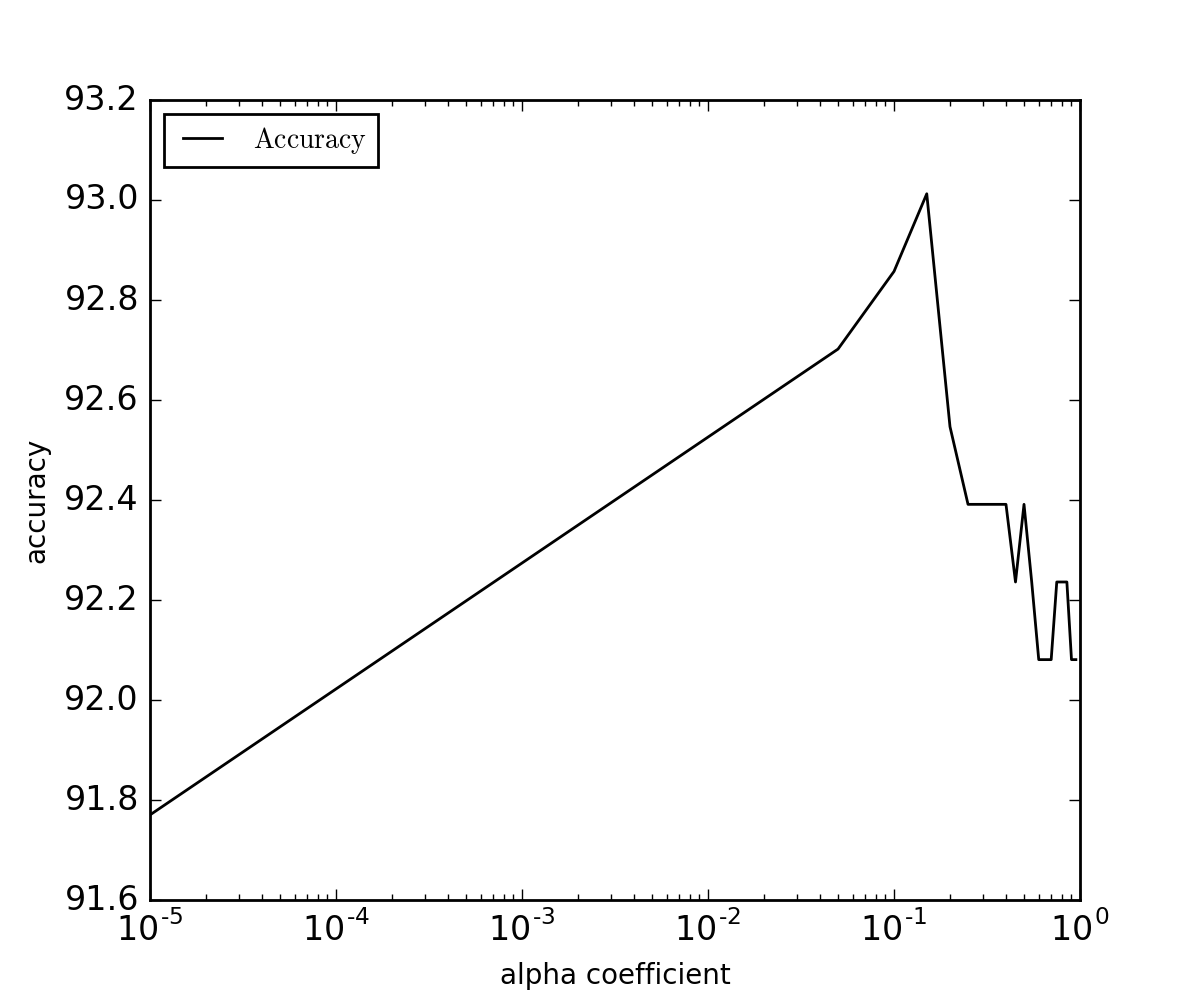
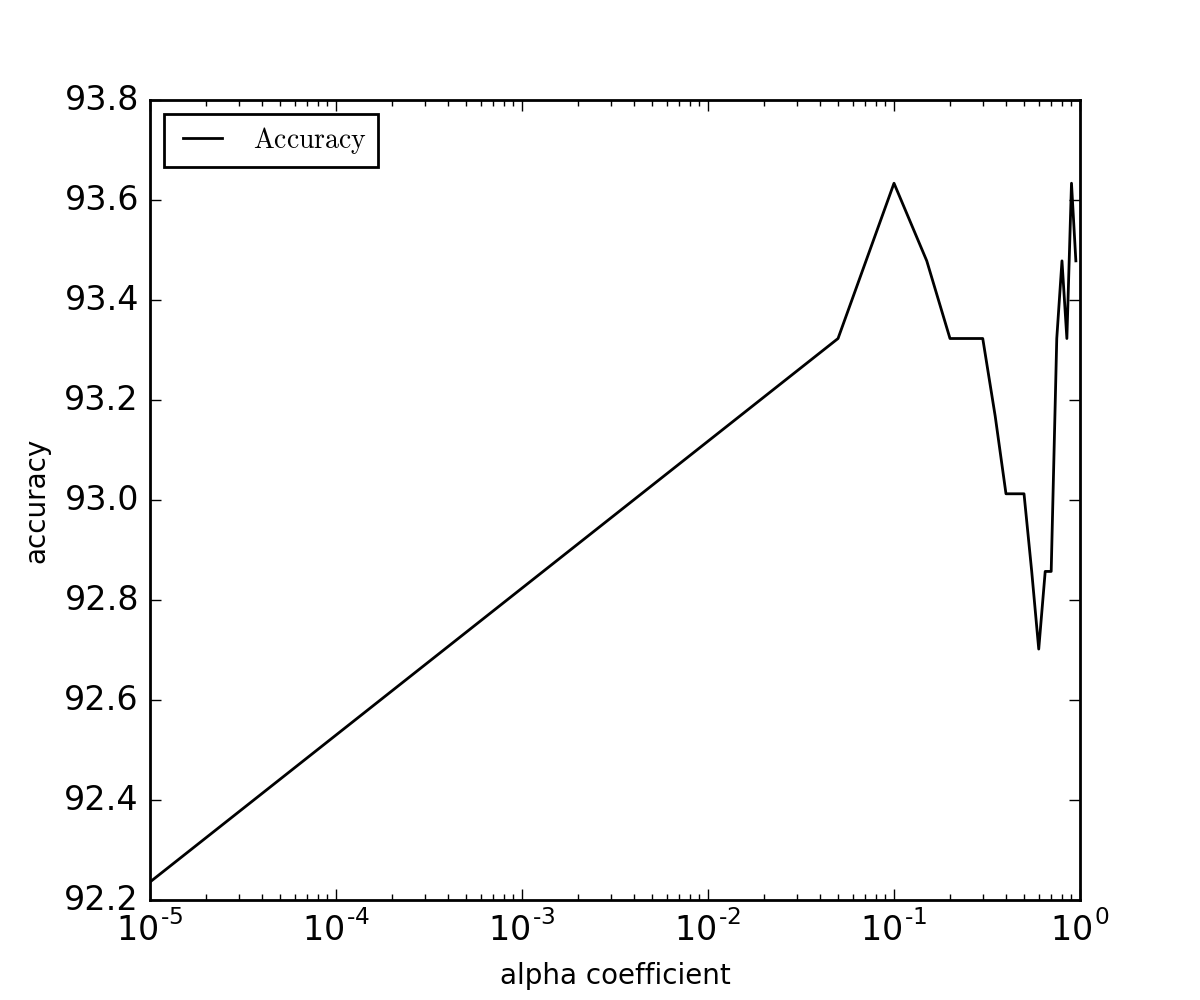
Words are now compared to stopwords in lowercase - top 10 words changed - Readme file added

diff --git a/asgn_2/src/classify.py b/asgn_2/src/classify.py
@@ -132,7 +132,8 @@ class NaiveBayes(object):
         V_tmp = np.unique(V_tmp)
         rm_set = []
         for i in range(len(V_tmp)):
-            if V_tmp[i] in rm_list:
+            V_temp_l = V_tmp[i].lower()
+            if V_temp_l in rm_list:
                 rm_set.append(i)
         self.V = np.delete(V_tmp, rm_set)
         self.V_card = len(self.V)
@@ -165,10 +166,10 @@ class NaiveBayes(object):
                 f = self._get_binomial_feature(self.train_set[i])
                 #self.features2[self.train_labels[i]].append(f)
             if model == 'multinomial':
-                #g = self._get_binomial_feature(self.train_set[i])
-                #self.features2[self.train_labels[i]].append(g)
-                f = self._get_multinomial_feature(self.train_set[i])
-            self.features[self.train_labels[i]].append(f)
+                g = self._get_binomial_feature(self.train_set[i])
+                self.features2[self.train_labels[i]].append(g)
+                k = self._get_multinomial_feature(self.train_set[i])
+            self.features[self.train_labels[i]].append(k)
 
     def _get_binomial_feature(self, doc):
         """
@@ -218,9 +219,10 @@ class NaiveBayes(object):
             if model == 'binomial':
                 self.likelihoods[_class] = (n+alpha)/float(self.Nk[_class]+beta)
             if model == 'multinomial':
-                #d_t = np.sum(self.features2[_class], axis=0)
-                #self.likelihoods[_class] = ((n*(1 + (np.log(self.Nk[_class]/d_t))))+alpha)/float(Tk+beta)
-                self.likelihoods[_class] = (n + alpha) / float(Tk + beta)
+                d_t = np.sum(self.features2[_class], axis=0)
+                self.likelihoods[_class] = ((n * ((np.log((self.Nk[_class] + 2) / (d_t + 1))))) + alpha) / float(
+                    Tk + beta)
+                #self.likelihoods[_class] = (n + alpha) / float(Tk + beta)
 
 
     def _bernoulli(self, doc, _class):
@@ -359,8 +361,6 @@ if __name__ == '__main__':
     # Multinomial Model
     # =================
 
-    # <editor-fold desc="Multinomial Model">
-
     multi = NaiveBayes(tweets_train, labels_train, tweets_dev, labels_dev, stopwords)
     #multi.MAP_estimation()
     multi.train_classifier(model='multinomial', alpha=1, beta=multi.V_card, p=0)
@@ -381,11 +381,7 @@ if __name__ == '__main__':
     print('Trump top 10')
     print([ multi.V[i] for i in t ])
 
-    # </editor-fold>
+    # multi = NaiveBayes(tweets_train, labels_train, tweets_dev, labels_dev, stopwords)
+    # multi.MAP_estimation()
+    #
 
-    # <editor-fold desc="Priors and overfitting">
-
-    multi = NaiveBayes(tweets_train, labels_train, tweets_dev, labels_dev, stopwords)
-    #multi.MAP_estimation()
-
-    # </editor-fold>
